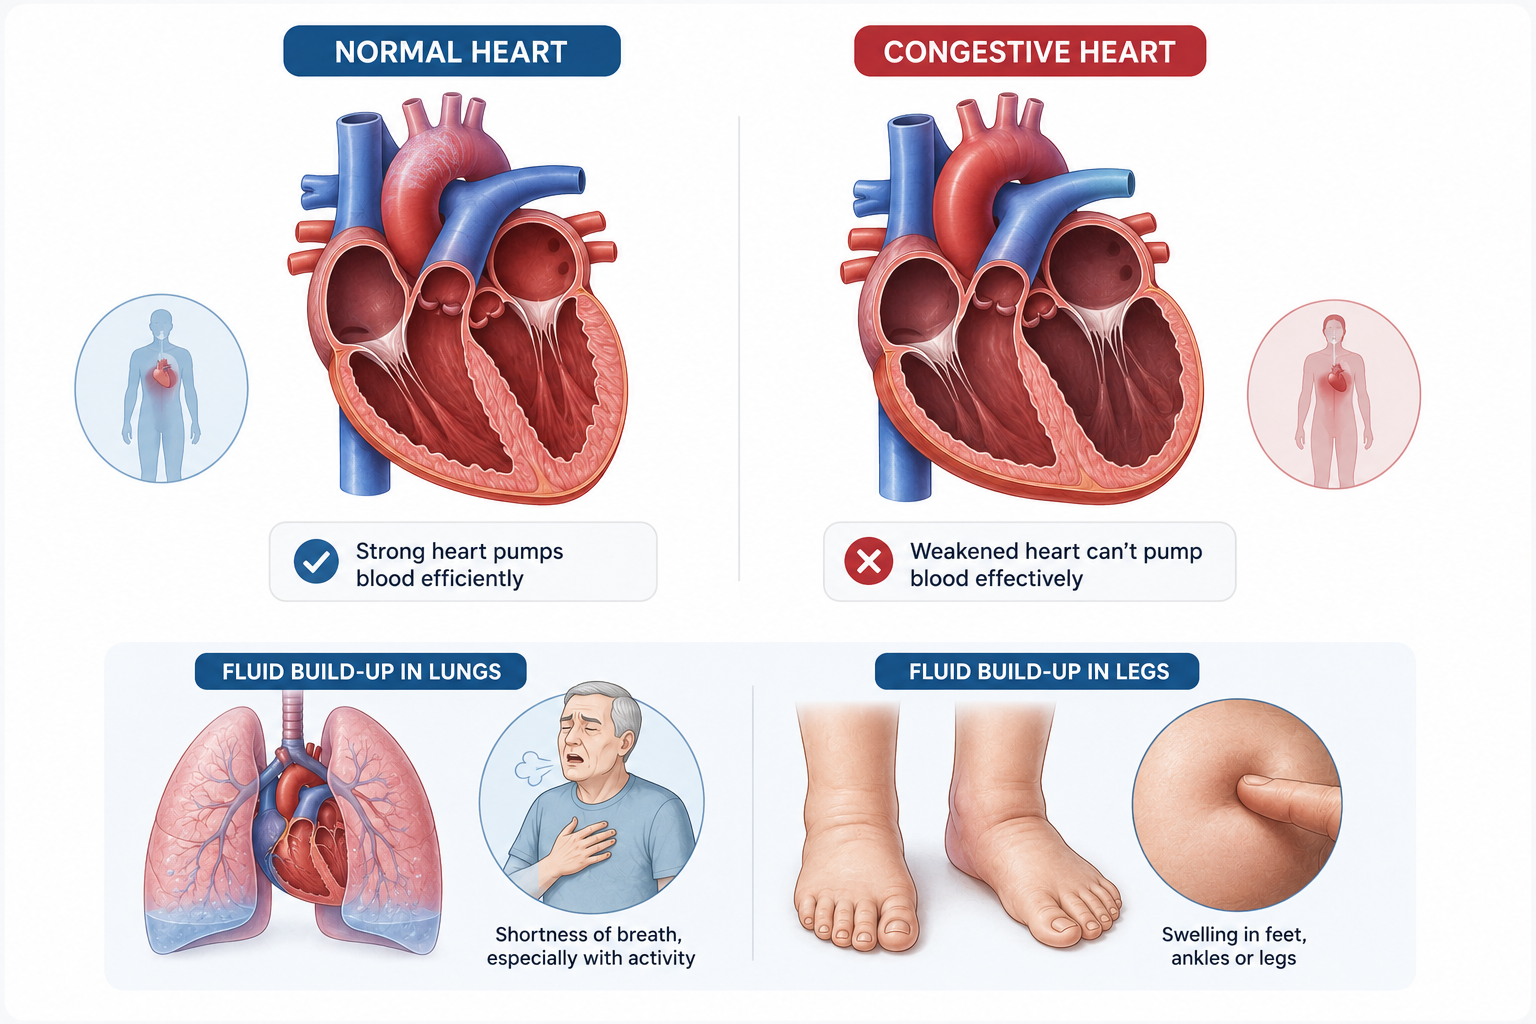
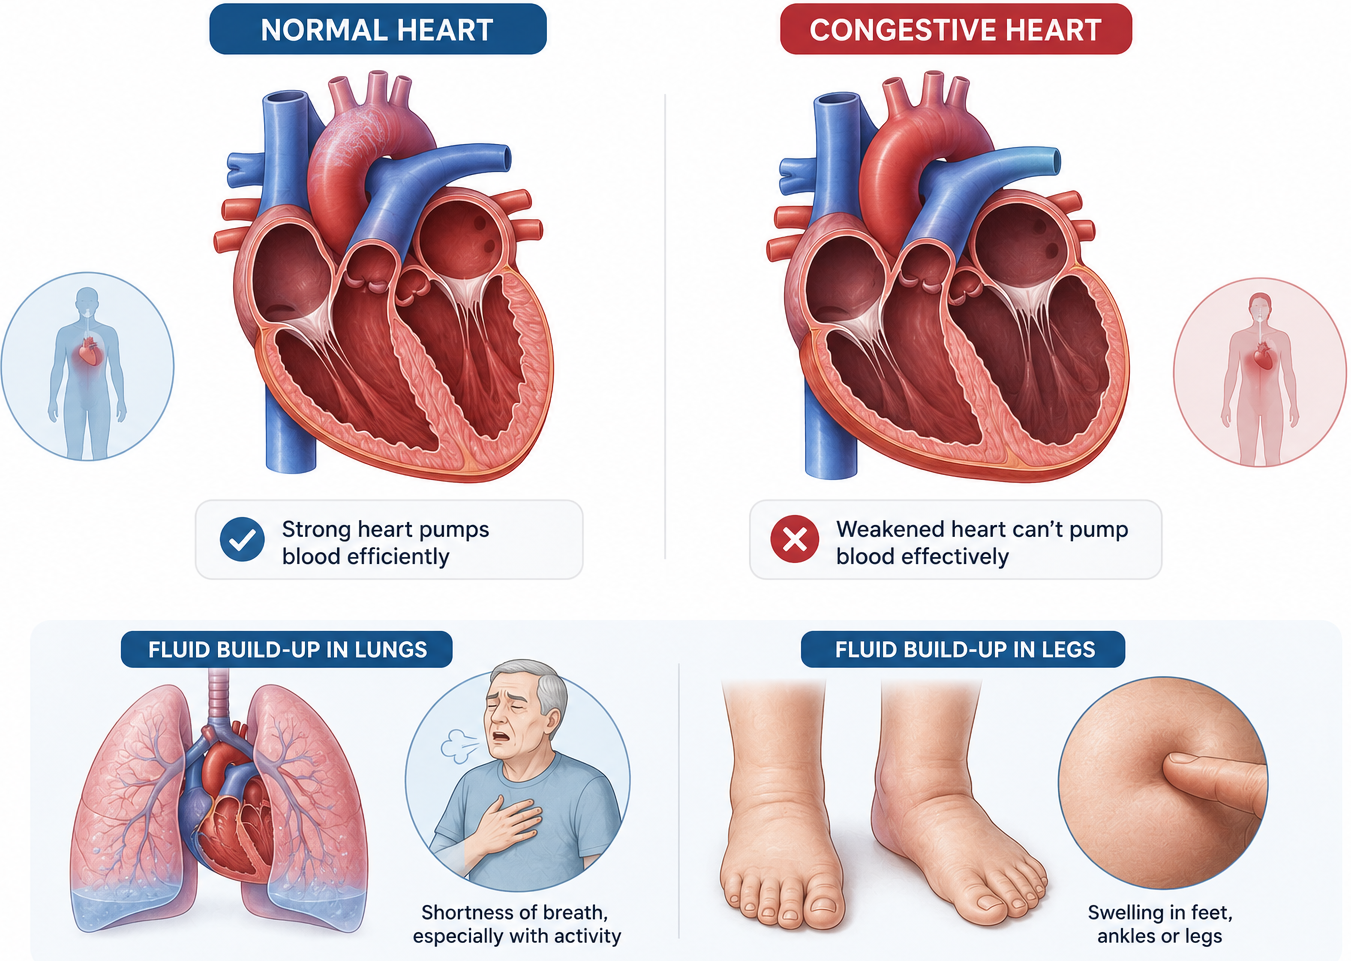
cdalja

diff --git a/src/components/HomeClient.jsx b/src/components/HomeClient.jsx
@@ -52,15 +52,13 @@ const doctorSpecialties = [
         name: "Coronary Artery Disease (CAD)",
         link: "/heart/cad",
         desc: "Complex coronary artery interventions and plaque management.",
-        image:
-          "https://images.unsplash.com/photo-1628348068343-c6a848d2b6dd?auto=format&fit=crop&w=800&q=80",
+        image: "/heart-2.png",
       },
       {
         name: "Arrhythmias & Rhythm Disorders",
         link: "/heart/arrhythmias",
         desc: "Atrial fibrillation, electrical disturbances, and Holter monitoring.",
-        image:
-          "https://images.unsplash.com/photo-1505751172876-fa1923c5c528?auto=format&fit=crop&w=800&q=80",
+        image: "/images/arrhythmia-types-visual.jpg",
       },
       {
         name: "Valvular & Structural Disease",
@@ -100,14 +98,13 @@ const doctorSpecialties = [
         name: "Venous Insufficiency & Varicose",
         link: "/blood-vessels/venous-disease",
         desc: "Lower limb venous valve management and duplex ultrasound.",
-        image:
-          "https://images.unsplash.com/photo-1584515979956-d9f6e5d09982?auto=format&fit=crop&w=800&q=80",
+        image: "/images/venous-types-visual-white.jpg",
       },
       {
         name: "Peripheral Artery Disease (PAD)",
         link: "/blood-vessels/peripheral-artery-disease",
         desc: "Endovascular intervention for leg arterial blockages.",
-        image: "/content4.png",
+        image: "/images/pad-overview-illustration.png",
       },
       {
         name: "Thromboembolic & DVT Care",
@@ -814,6 +811,7 @@ export default function HomeClient() {
                           src={item.image}
                           alt={item.name}
                           fill
+                          sizes="(max-width: 640px) 100vw, (max-width: 1024px) 50vw, 25vw"
                           className="object-cover group-hover:scale-105 transition-transform duration-500"
                         />
                         <div className="absolute inset-0 bg-gradient-to-t from-slate-950/60 via-transparent to-transparent" />
@@ -1201,10 +1199,7 @@ export default function HomeClient() {
         <div className="absolute top-1/2 right-1/4 -translate-y-1/2 w-96 h-96 bg-blue-500/10 rounded-full blur-3xl pointer-events-none" />
 
         <div className="max-w-7xl mx-auto px-4 sm:px-6 lg:px-8 relative z-10 text-center mb-10 sm:mb-14 space-y-3">
-          <div className="inline-flex items-center space-x-2 text-sky-300 text-xs font-extrabold uppercase tracking-wider bg-white/10 px-4 py-1.5 rounded-full border border-white/15 backdrop-blur-md">
-            <ShieldCheck className="h-4 w-4 text-sky-400" />
-            <span>Accepted Insurance & Coverage</span>
-          </div>
+         
           <h2 className="text-3xl sm:text-4xl lg:text-5xl font-extrabold text-white tracking-tight">
             Insurance Plans We Accept
           </h2>

diff --git a/src/app/blood-vessels/peripheral-artery-disease/page.jsx b/src/app/blood-vessels/peripheral-artery-disease/page.jsx
@@ -166,7 +166,7 @@ export default function PADPage() {
           <div className="lg:col-span-9 space-y-12">
 
             {/* OVERVIEW */}
-            <section id="overview" className="bg-white border border-blue-100 rounded-3xl p-6 sm:p-10 shadow-xs scroll-mt-24">
+            <section id="overview" className="bg-white border border-blue-100 rounded-3xl p-6 sm:p-10 shadow-xs scroll-mt-24 overflow-hidden">
               <div className="mb-6">
                 <h2 className="text-2xl sm:text-3xl font-extrabold text-slate-900">Understanding Peripheral Artery Disease</h2>
               </div>
@@ -175,24 +175,23 @@ export default function PADPage() {
                 <p>
                   Peripheral artery disease (PAD) is more than a circulation problem in the legs—it is a manifestation of systemic atherosclerosis. The same disease process that affects the arteries of the legs can also affect the heart and brain, which is why PAD is an important marker of overall cardiovascular risk.
                 </p>
-              </div>
-
-              <div className="mt-8 relative aspect-[16/9] w-full rounded-2xl overflow-hidden shadow-md border border-slate-200/80 bg-white">
-                <Image
-                  src="/images/pad-overview-illustration.png"
-                  alt="Peripheral Artery Disease (PAD) Overview Illustration"
-                  fill
-                  className="object-cover object-center"
-                />
-              </div>
-
-              <div className="mt-8 space-y-4 text-slate-600 text-sm sm:text-base leading-relaxed">
                 <p>
                   Progressive PAD can reduce walking ability, physical activity, strength, and mobility, sometimes leading to significant disability.
                 </p>
                 <p>
                   Advanced PAD can threaten the limb. Severe disease may cause rest pain, nonhealing wounds, ulcers, or gangrene and can ultimately result in amputation.
                 </p>
+              </div>
+
+              {/* Overview Medical Infographic Banner */}
+              <div className="mt-8 -mx-6 sm:-mx-10 -mb-6 sm:-mb-10 border-t border-slate-100 bg-white">
+                <Image
+                  src="/images/pad-overview-illustration.png"
+                  alt="Peripheral Artery Disease (PAD) Overview Illustration"
+                  width={1400}
+                  height={900}
+                  className="w-full h-auto block"
+                />
               </div>
             </section>
 
